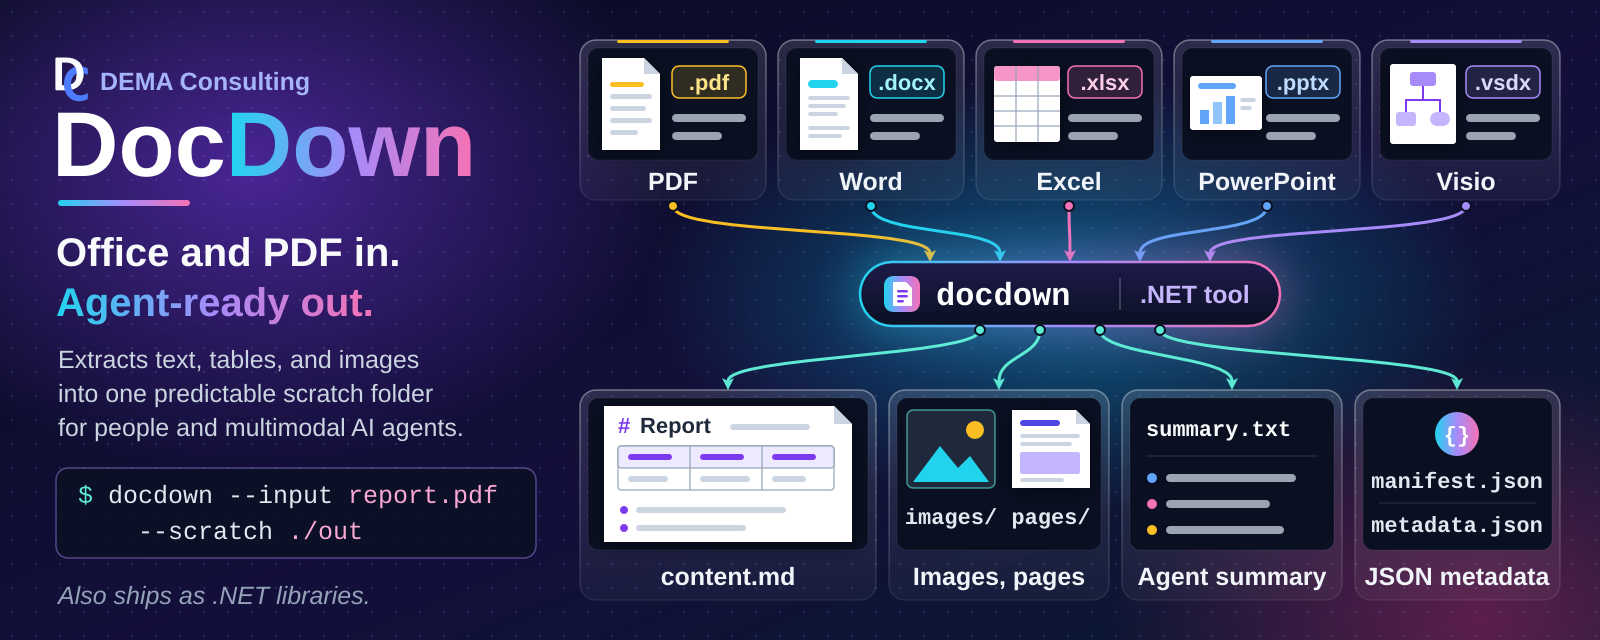
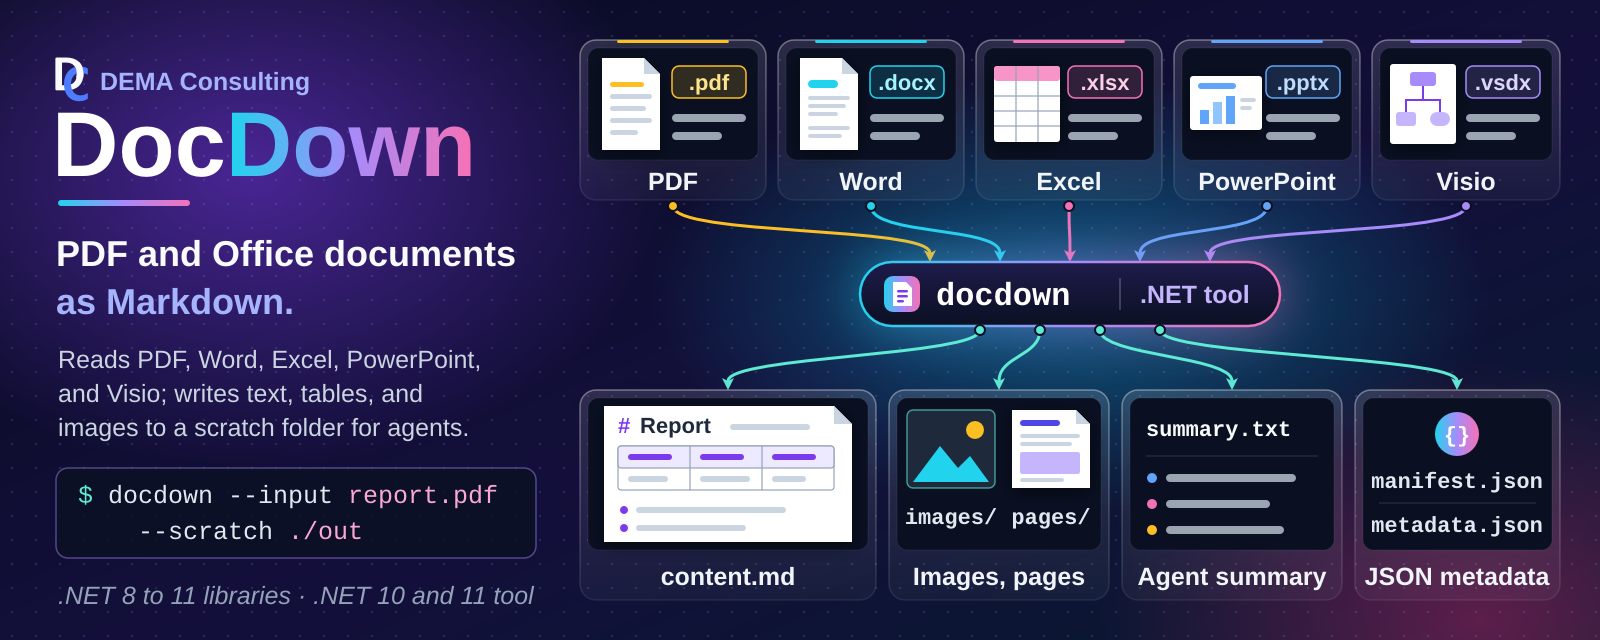
Sync agents/template and calm the README hero (#38)
* Sync shared agents, skills, and standards (Agents #60, #62, #64)

Copy .github/agents, skills, and standards verbatim from the Agents repo,
add the Project Scripts section to AGENTS.md, drop fix.ps1/lint.ps1 from the
protected list, and record the legacy SysML2 package layout as a
repository-specific exception.

* Sync template: script CUSTOMIZATION headers and yamlfix comment setting (Agents #61, #63)

* Calm the README hero and make it the H1 (Agents #66, #67)

Plain tagline 'PDF and Office documents / as Markdown.' without gradient
text, factual body and footnote, and the hero image as the README H1 with
the badges directly under it.

---------

Changed region(s): [[0.0312, 0.5312, 0.3125, 0.6875], [0.0312, 0.375, 0.3438, 0.5], [0.0312, 0.9062, 0.3438, 0.9688]]

diff --git a/.github/standards/sysml2-modeling.md b/.github/standards/sysml2-modeling.md
@@ -31,15 +31,15 @@ docs/sysml2/
 ├── common/
 │   └── software-items.sysml           # shared SoftwareItemMetadata::SoftwareInfo metadata def
 ├── model/
-│   ├── {system-name}.sysml            # system-level part def only (no subsystems/units inline)
+│   ├── {system-name}.sysml            # package {SystemName}; system-level part def only (no subsystems/units inline)
 │   ├── {system-name}/
-│   │   ├── {subsystem-name}.sysml     # subsystem part def; nests further for sub-subsystems
+│   │   ├── {subsystem-name}.sysml     # package {SystemName}_{SubsystemName}Subsystem; nests further for sub-subsystems
 │   │   └── {subsystem-name}/
-│   │       └── {unit-name}.sysml      # one file per unit
-│   ├── ots.sysml                      # OTS dependency parts (optional; if OTS items exist)
-│   └── shared.sysml                   # Shared Package parts (optional; if Shared Packages exist)
+│   │       └── {unit-name}.sysml      # package {SystemName}_{UnitName}; one file per unit
+│   ├── ots.sysml                      # package OtsDependencies: OTS parts (optional; if OTS items exist)
+│   └── shared.sysml                   # package SharedPackages: Shared Package parts (optional; if Shared Packages exist)
 └── views/
-    └── design-views.sysml             # named view usages rendered for the design document
+    └── design-views.sysml             # package {RepoName}DesignViews; named view usages rendered for the design document
 ```
 
 `docs/sysml2/common/software-items.sysml` defines the `SoftwareItemMetadata::SoftwareInfo`
@@ -62,14 +62,42 @@ so no single alias name would generalize. Agents discover the system(s) present 
 `docs/sysml2/**/*.sysml`, not by assuming a fixed name.
 
 Always pass the full set of `.sysml` files (or an equivalent glob) to every `sysml2tools`
-invocation — the model spans multiple files and cross-references between them; files sharing
-the same `package Name { ... }` merge into one namespace automatically with no `import`
-required, as long as all files are passed together. As of `sysml2tools` 0.1.0-beta.5,
+invocation — the model spans multiple files and cross-references between them, and a
+reference only resolves when the file declaring its target is loaded (see Package Structure
+below for how files reference each other). As of `sysml2tools` 0.1.0-beta.5,
 `lint` and `render` both expand `*`/`**` glob patterns internally (recursing correctly into
 subdirectories), so pass a single **quoted** glob string (e.g. `'docs/sysml2/**/*.sysml'`)
 and let the tool resolve it — do not rely on the shell to expand it, and do not quote-strip
 the pattern before it reaches the tool. Quoting keeps the behavior identical across
 PowerShell and bash, since neither shell needs to (or reliably does) expand `**` itself.
+
+## Package Structure
+
+SysML v2 has no package merging: each file is its own root namespace, and two root packages
+with the same name are duplicate members of the global namespace (the OMG Pilot
+Implementation reports "Duplicate of other owned member name" for each, and references across
+the halves do not resolve). A model that only loads because a tool is lenient is not portable,
+so:
+
+- Each `.sysml` file declares **exactly one uniquely named package**, and a package is never
+  declared (or "reopened") in more than one file.
+- Name each package from its place in the hierarchy, joined with an underscore:
+  `{SystemName}` for the system file, `{SystemName}_{SubsystemName}Subsystem` for a subsystem
+  (including a nested sub-subsystem, which is not prefixed with its parent subsystem), and
+  `{SystemName}_{UnitName}` for a unit. The system prefix keeps names unique across systems.
+  The shared files use `OtsDependencies` and `SharedPackages`, and the single views file uses
+  one repository-level package, `{RepoName}DesignViews` (not one per system).
+- Package names must be unique **repository-wide**. The short forms above are the default;
+  when one would collide (two `Storage` subsystems in different branches, or two units named
+  `Cache` in different subsystems), qualify it with the owning subsystem path, for example
+  `{SystemName}_{SubsystemName}_{UnitName}` (`Acme_Ingest_Cache` and `Acme_Query_Cache`).
+- Reference other files with an explicit `private import {PackageName}::*;` (a system or
+  subsystem file imports the package of each direct member so its `part` usages resolve; every
+  file that applies `SoftwareInfo` imports `SoftwareItemMetadata::*`).
+- Where an import would form a cycle (for example a unit that depends on a package that
+  already imports it), or for a one-off reference into another system, use the qualified name
+  instead, e.g. `dependency {UnitName} to {SystemName}_{OtherUnit}::{OtherUnit};`.
+  Import cycles raise a lint warning; qualified references do not.
 
 ## Model Content
 
@@ -174,11 +202,13 @@ Views control what gets rendered into diagrams for the design document. Use name
 **usages** (not `view def` **definitions**) — `expose` is only valid inside a usage:
 
 ```sysml
-package {SystemName} {
+package {RepoName}DesignViews {
     private import StandardViewDefinitions::*;
+    private import {SystemName}::*;
+    private import {SystemName}_{SubsystemName}Subsystem::*;
 
     view SoftwareStructureView : InterconnectionView {
-        expose {SystemName}::**;     // all members, recursively: system + subsystems + units
+        expose {SystemName}::{SystemName}System::**;  // system part def, recursively: subsystems + units
     }
 
     view {SystemName}View {
@@ -186,10 +216,12 @@ package {SystemName} {
     }
 
     view {SubsystemName}View {
-        expose {SubsystemName};      // one subsystem def only
+        expose {SubsystemName}Subsystem;      // one subsystem def only
     }
 }
 ```
+
+Views import (or qualify) every package whose members they expose, like any other file.
 
 Type `SoftwareStructureView` by a standard view definition from the SysML v2 Views library
 (`GeneralView`, `InterconnectionView`, ...; requires `sysml2tools` 0.3.0-beta.3+). The view
@@ -223,25 +255,27 @@ There is no dedicated `DependencyView`/`{SubsystemName}DependencyView` diagram c
 above), not rendered.
 
 When a repository has multiple systems, type `SoftwareStructureView` by `GeneralView`,
-expose each system package's members, and filter out documentation so the overview stays
-readable — the general view draws one package frame per system, while an interconnection
-view places all systems in a single row:
+expose each system's part def (and each subsystem's, by qualified name), and filter out
+documentation so the overview stays readable — the general view draws one package frame per
+system, while an interconnection view places all systems in a single row:
 
 ```sysml
 package {RepoName}DesignViews {
     private import StandardViewDefinitions::*;
 
     view SoftwareStructureView : GeneralView {
-        expose {SystemNameA}::**;
-        expose {SystemNameB}::**;
-        filter not @SysML::Documentation;
+        expose {SystemNameA}::{SystemNameA}System;
+        expose {SystemNameA}_{SubsystemName}Subsystem::{SubsystemName}Subsystem;
+        expose {SystemNameB}::{SystemNameB}System;
+        filter not (@SysML::Documentation);
     }
 }
 ```
 
 Documentation (`doc`) is exposed with its owner and drawn as a `doc` compartment unless a
-view filters it out; use `filter not @SysML::Documentation;` wherever doc text would clutter
-a diagram.
+view filters it out; use `filter not (@SysML::Documentation);` wherever doc text would clutter
+a diagram. The parentheses are required: the SysML v2 grammar does not accept the unparenthesized
+`filter not @SysML::Documentation;`.
 
 ## Diagram Embedding
 
@@ -313,6 +347,9 @@ sync.
   `sourceFiles`; the purpose statement appears only in the `doc` comment, never in `SoftwareInfo`
 - [ ] `docs/sysml2/views/design-views.sysml` uses `view Name { expose ...; }` usages, not
   `view def` definitions
+- [ ] Each `.sysml` file declares exactly one uniquely named package (never the same package
+  in two files), named per Package Structure, and references other files through
+  `private import` or qualified names (qualified where an import would form a cycle)
 - [ ] View names follow the `SoftwareStructureView` / `{SystemName}View` /
   `{SubsystemName}View` convention (no dedicated `DependencyView`)
 - [ ] Each Unit's real collaborators are captured as `dependency A to B;` statements, and each

diff --git a/.github/skills/sysml2tools-query/SKILL.md b/.github/skills/sysml2tools-query/SKILL.md
@@ -21,11 +21,15 @@ dotnet tool restore
 ## Model files
 
 - `docs/sysml2/model/{system-name}.sysml` — system-level `part def` only (no subsystems/units
-  inline). A repository may contain more than one system.
+  inline), in package `{SystemName}`. A repository may contain more than one system.
 - `docs/sysml2/model/{system-name}/{subsystem-name}.sysml` and
   `docs/sysml2/model/{system-name}/{subsystem-name}/{unit-name}.sysml` — one file per
   Subsystem/Unit, nested to mirror the same folder depth as that item's companion
-  `docs/design/`, `docs/reqstream/`, and `docs/verification/` files.
+  `docs/design/`, `docs/reqstream/`, and `docs/verification/` files. Each declares its own
+  uniquely named package; by default `{SystemName}_{SubsystemName}Subsystem` or
+  `{SystemName}_{UnitName}`, qualified with the subsystem path
+  (`{SystemName}_{SubsystemName}_{UnitName}`) when the short name would collide. An element's
+  qualified name is e.g. `{SystemName}_{UnitName}::{UnitName}`.
 - `docs/sysml2/model/ots.sysml` — off-the-shelf (OTS) dependency parts (present when OTS items
   exist).
 - `docs/sysml2/model/shared.sysml` — Shared Package parts (present when Shared Package items
@@ -35,9 +39,10 @@ dotnet tool restore
   useful to see how diagrams are scoped.
 
 Always pass all `.sysml` files (or a glob covering them) to every `sysml2tools`
-invocation — the model spans multiple files and cross-references between them; files that
-reopen the same `package Name { ... }` from different files merge into one namespace
-automatically, no `import` required. As of `sysml2tools` 0.1.0-beta.5, every subcommand
+invocation — the model spans multiple files and cross-references between them (each file
+declares one uniquely named package and references others through `import` or qualified
+names; same-named packages in different files are not merged), so every file a reference
+points at must be loaded. As of `sysml2tools` 0.1.0-beta.5, every subcommand
 (`lint`, `render`, `query`) expands `*`/`**` glob patterns internally and recurses
 correctly — pass a single **quoted** glob string and let the tool resolve it, rather than
 relying on the shell (quoting works identically in both PowerShell and bash):
@@ -57,7 +62,7 @@ summary line, so one query gets you every artifact location for that item withou
 the source tree:
 
 ```pwsh
-dotnet sysml2tools query describe -e {SystemName}::{UnitName} 'docs/sysml2/**/*.sysml'
+dotnet sysml2tools query describe -e {SystemName}_{UnitName}::{UnitName} 'docs/sysml2/**/*.sysml'
 ```
 
 ```text

diff --git a/AGENTS.md b/AGENTS.md
@@ -193,10 +193,32 @@ requires it and the modification preserves the documented design intent:
 
 - `.reviewmark.yaml`, `.textlint.yaml`, `.editorconfig`
 - `.lintmark.yaml`, `.yamllint.yaml`
-- `requirements.yaml`, `fix.ps1`, `lint.ps1`
+- `requirements.yaml`
+
+# Project Scripts
+
+`build.ps1`, `lint.ps1`, and `fix.ps1` belong to the project: extend them as it grows. Add project-specific
+steps, update tool versions, and add optional parameters that focus a run (for example one library in a
+multi-library repository, or headless tests without GUI automation). Two rules keep them trustworthy:
+
+- Run with no arguments, each script still does its full job (CI and the agents rely on that); slow or
+  environment-dependent test tiers may be opt-in switches of `build.ps1`.
+- Never remove or weaken a check to make lint or tests pass.
 
 # Continuous Compliance Overview
 
 This repository follows the [Continuous Compliance](https://github.com/demaconsulting/ContinuousCompliance)
 approach. Tools: **ReqStream** (requirements traceability), **ReviewMark** (file review enforcement),
 **BuildMark** (tool versions), **VersionMark** (version tracking).
+
+# Repository-Specific Standards Exceptions
+
+## SysML2 package structure (legacy layout, migration pending)
+
+The model under `docs/sysml2/` predates the one-package-per-file rule: each system package is reopened
+across its files, including `views/design-views.sysml` (`DocDownCore` in 20 files, `DocDownOffice` in 43,
+`DocDownTool` in 8, `DocDownPdf` in 7, and `DocDownPdfRendering`, `DocDownPowerPointRendering`, and
+`DocDownVisioRendering` in 5 each), and the views reopen those packages instead of using one
+`DocDownDesignViews` package. The `sysml2-modeling.md` Package Structure rules and the `sysml2tools-query`
+qualified-name examples apply once the model is migrated in a dedicated PR; until then, agents use the
+existing package names and must not partially restructure the model.

diff --git a/README.md b/README.md
@@ -1,7 +1,4 @@
-# DocDown
-
-<!-- IMPORTANT: All links in this file must be absolute URLs.
-     This file is distributed in packages and relative links will not resolve. -->
+# ![DocDown: PDF and Office documents as Markdown][hero]
 
 [![GitHub forks](https://img.shields.io/github/forks/demaconsulting/DocDown?style=plastic)](https://github.com/demaconsulting/DocDown/network/members)
 [![GitHub stars](https://img.shields.io/github/stars/demaconsulting/DocDown?style=plastic)](https://github.com/demaconsulting/DocDown/stargazers)
@@ -11,8 +8,6 @@
 [![Quality Gate](https://sonarcloud.io/api/project_badges/measure?project=demaconsulting_DocDown&metric=alert_status)](https://sonarcloud.io/dashboard?id=demaconsulting_DocDown)
 [![Security](https://sonarcloud.io/api/project_badges/measure?project=demaconsulting_DocDown&metric=security_rating)](https://sonarcloud.io/dashboard?id=demaconsulting_DocDown)
 [![NuGet](https://img.shields.io/nuget/v/DemaConsulting.DocDown.Core?style=plastic)](https://www.nuget.org/packages/DemaConsulting.DocDown.Core)
-
-![DocDown banner: the DocDown name with the tagline 'Office and PDF in. Agent-ready out.' and the command 'docdown --input report.pdf --scratch ./out'. PDF, Word, Excel, PowerPoint, and Visio documents flow on curved arrows into the docdown .NET tool, and arrows lead out to the scratch folder it writes: content.md Markdown with a heading, a table, and a list, extracted images and rendered pages in images/ and pages/, an agent-readable summary.txt, and the manifest.json and metadata.json files. A footnote notes that DocDown also ships as .NET libraries][hero]
 
 ## Overview
 

diff --git a/.github/agents/orchestrator.agent.md b/.github/agents/orchestrator.agent.md
@@ -48,3 +48,16 @@ briefly, what you loaded.
   let the user answer in their own words. Do not batch decisions into structured question forms (such as an
   `ask_user` tool); they strip away the context the user needs to decide and turn the session into a
   questionnaire.
+
+# Pull Requests (MANDATORY)
+
+Aim for pull requests that each merge one complete, useful change that could be cherry-picked on its own.
+
+- Before starting work that could span more than one pull request, propose the grouping and let the user
+  decide. The user may split it, or combine several small requests into one pull request.
+- When splitting, split by behavior, not by layer or file type: each part carries its own code, tests,
+  requirements, and docs, builds and passes alone, and leaves no stubs or dead code for a later part.
+- Deliver parts in order: start the next part from main only after the previous one merges.
+- Review fixes, lint fixes, and follow-ups go into the open pull request they belong to, not a new one.
+- Sub-agents work on the agreed branch and do not open pull requests; you decide when it is complete.
+- Keep mechanical churn (formatting, renames, generated files) in its own commit so reviewers can skip it.

diff --git a/.github/agents/planning.agent.md b/.github/agents/planning.agent.md
@@ -52,10 +52,13 @@ Repeat up to 2 more times, stopping when the plan is stable.
 
 List up to 5 risks with a brief mitigation for each.
 
-## Step 6 — Feasibility Assessment
+## Step 6 — Feasibility and Delivery
 
 State whether this can be implemented in a single development pass and any
-preconditions that affect feasibility.
+preconditions that affect feasibility. Propose how the work groups into pull
+requests: one complete, useful change per pull request where possible; if it
+should be split, list ordered parts that are split by behavior (not by layer or
+file type) and each build, pass, and deliver something on their own.
 
 ## Step 7 — Recommendation
 
@@ -108,9 +111,12 @@ Then respond to the caller with ONLY the lean structured summary below.
 
 1. **[severity]** {risk} — {mitigation}
 
-## Feasibility Assessment
+## Feasibility and Delivery
 
 {Single-pass or not, and why. Any preconditions.}
+
+{Proposed pull-request grouping: one pull request, or ordered parts split by behavior,
+each with what it delivers on its own.}
 
 ## Unknowns
 
